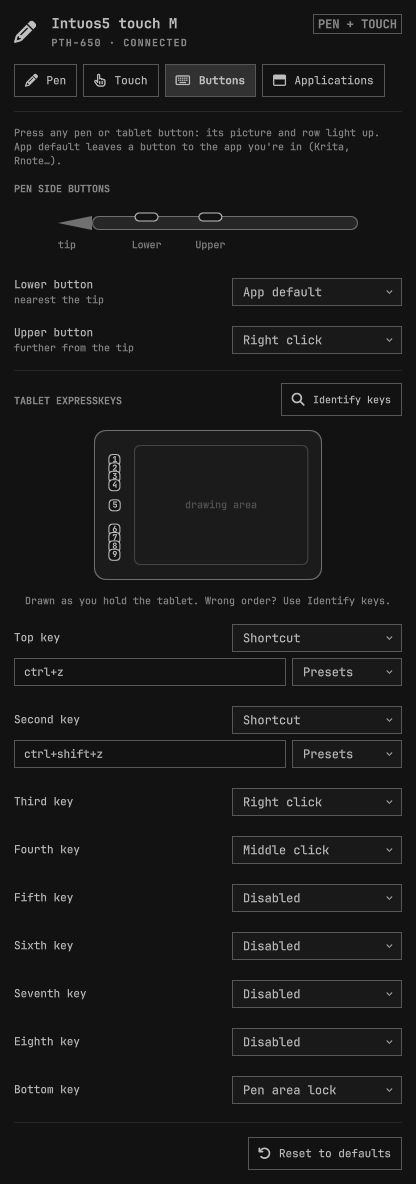
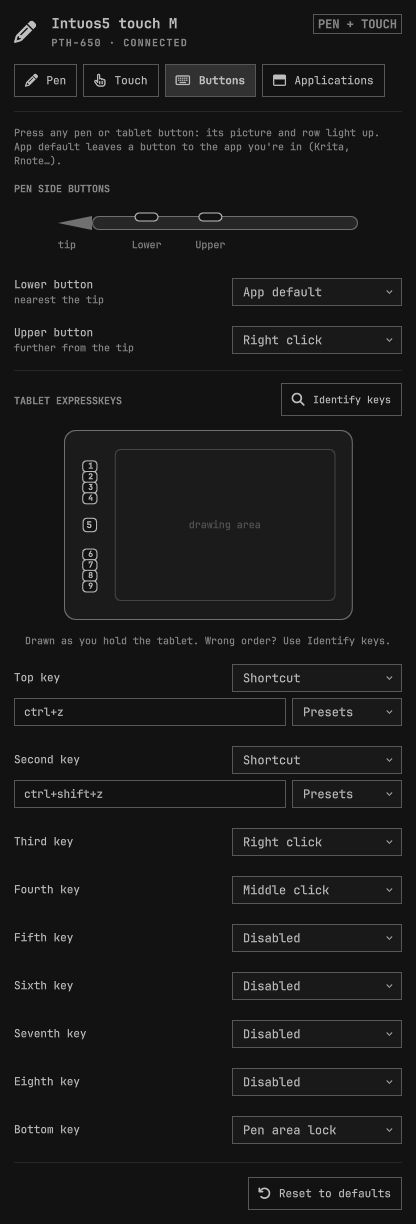
Make the ExpressKeys diagram taller so the keys have more room
Raise the height cap of the tablet diagram from 150 to 190. The whole
drawing scales uniformly, so the key boxes no longer touch on tablets
with a dense key column (Intuos5 touch M). Retake the Buttons tab
screenshot.

diff --git a/Panel.qml b/Panel.qml
@@ -1622,7 +1622,7 @@ Panel {
     // Size of the drawing once turned.
     readonly property real shownW: quarter ? ch : cw
     readonly property real shownH: quarter ? cw : ch
-    readonly property real k: Math.min(width / shownW, Style.space(150) / shownH)
+    readonly property real k: Math.min(width / shownW, Style.space(190) / shownH)
 
     implicitHeight: shownH * k + Style.space(4)
 
